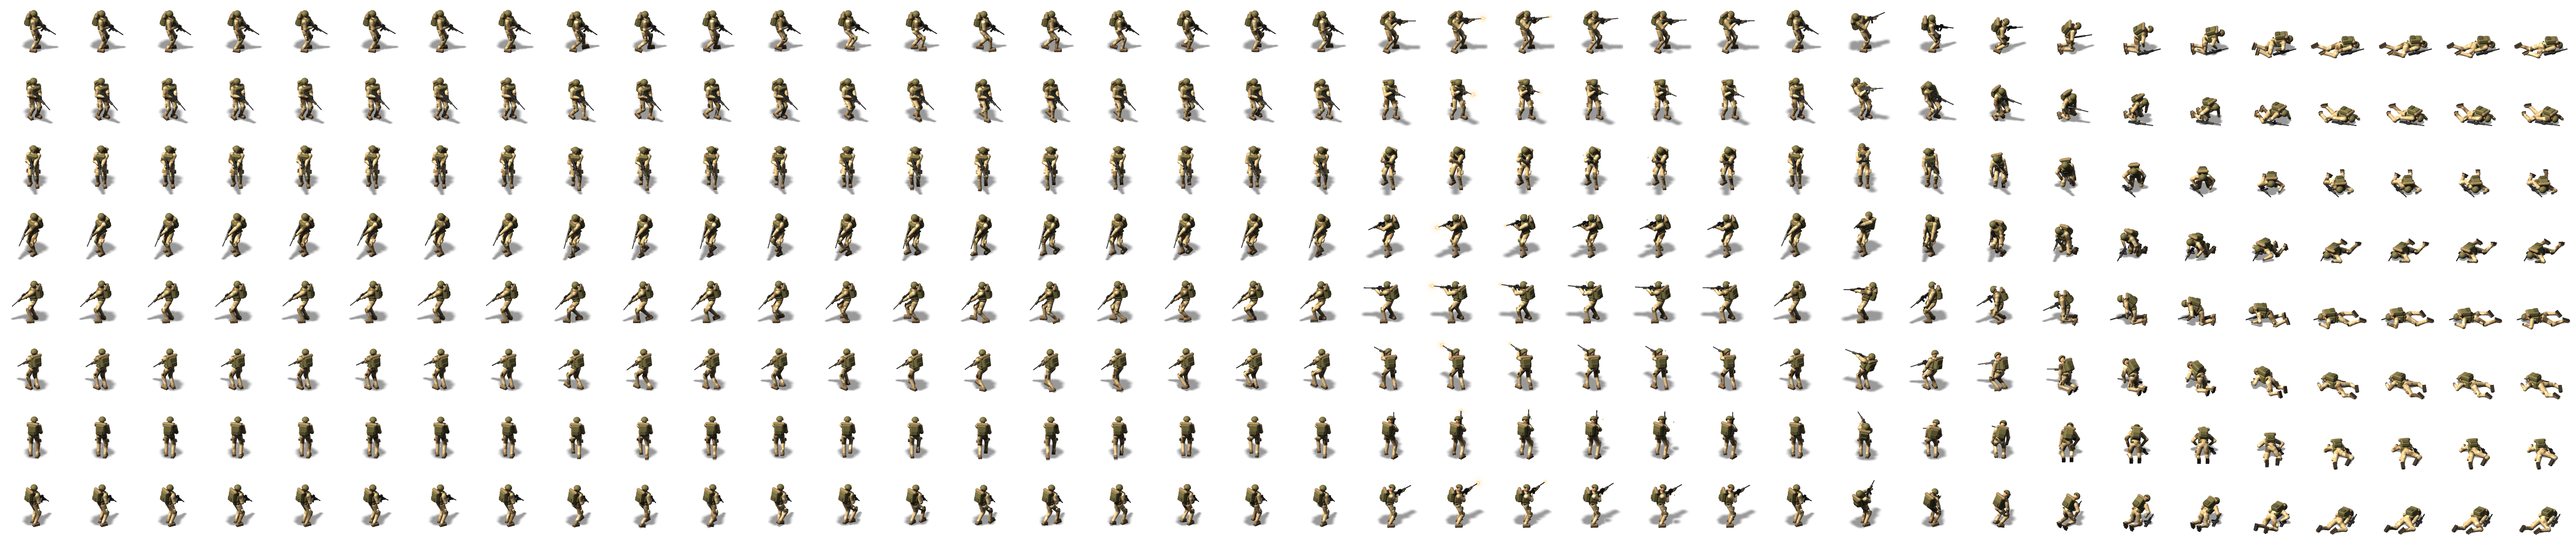
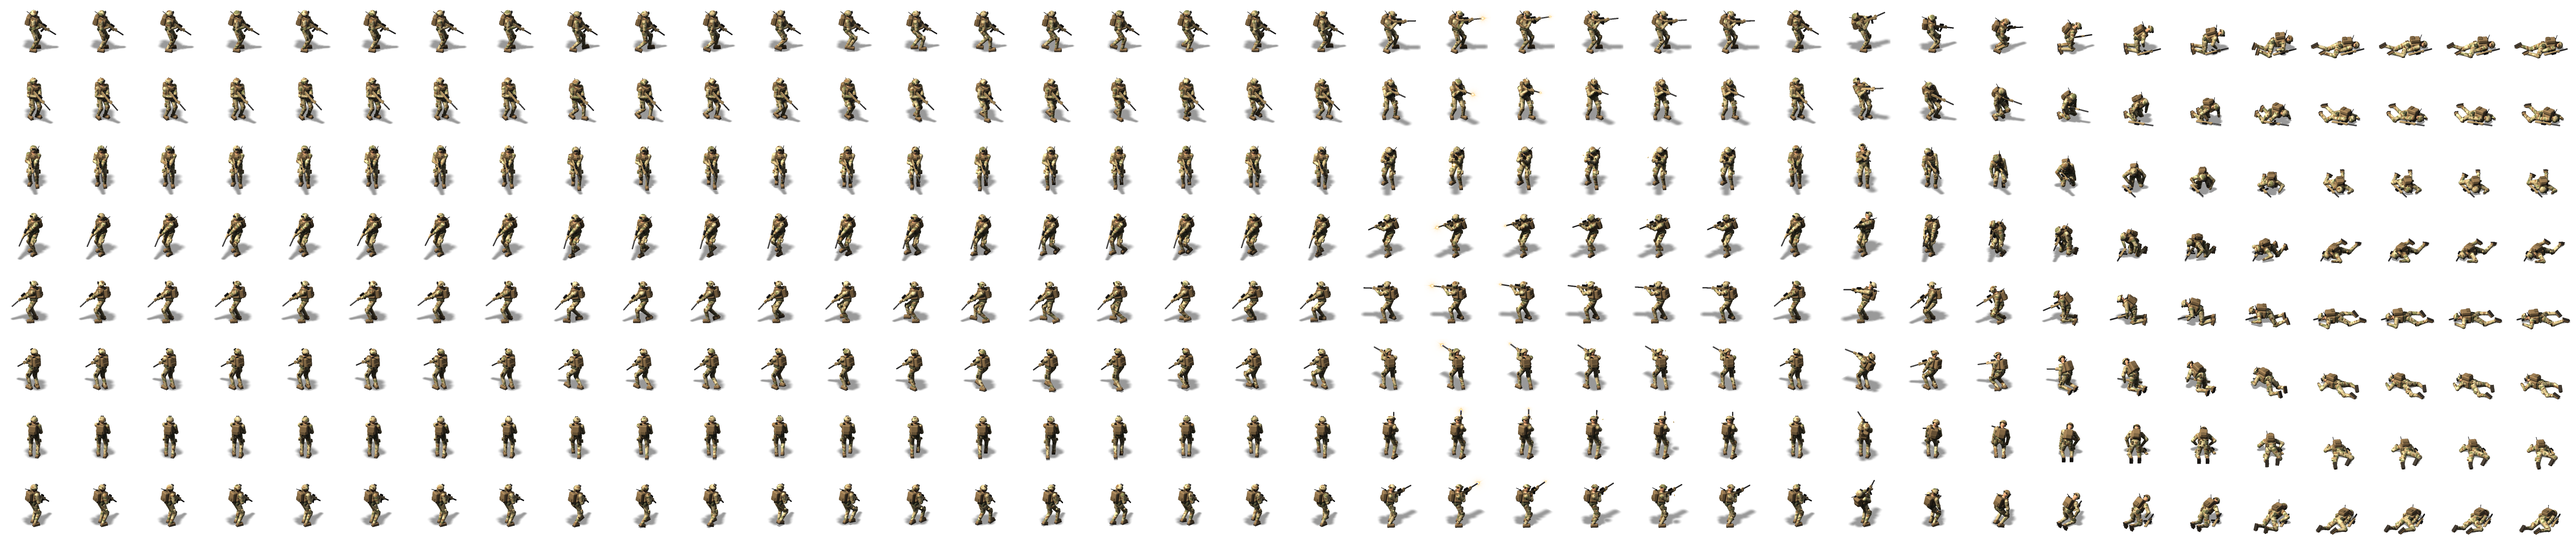
Re-kit the soldier in current-issue equipment
The rig (tools/soldier3d/soldier3d.py) now wears current US Army kit,
simplified so it reads at about 90 px:
- OCP / MultiCam-style uniform (tan, khaki, olive, brown, dark branches)
- coyote low-profile plate carrier: cummerbund, shoulder straps, three
  ranger-green 6.8 mm magazine pouches, admin pouch, tourniquet
- battle belt with first-aid and dump pouches; coyote knee pads and gloves
- high-cut helmet in OCP: side rails, NVG mount, ENVG-B-style binocular
  goggles flipped up, battery pack, comms headset, ballistic glasses
- assault pack with a radio and whip antenna
- M7-style rifle in flat dark earth with a suppressor, a fire-control
  optic and a laser module
The goggles and antenna stay inside the helmet's outline, so the standing
height is the same in every view (93-95 px). Game atlas and stand-alone
sheets re-rendered; docs updated.

Tests: anim 35/35, units 82/82, battle 10/10. Tracers still start 0 px
from the drawn muzzle.

Claude-Session: https://claude.ai/code/session_01PnJZQJwfKQuhKUNyfFw8zk

diff --git a/tools/soldier3d/soldier3d.py b/tools/soldier3d/soldier3d.py
@@ -86,37 +86,51 @@ MAT = {
     "olive2": dict(col=(0.33, 0.31, 0.20), spec=0.05),
     "coyote": dict(col=(0.56, 0.47, 0.33), spec=0.05),
     "skin":   dict(col=(0.80, 0.58, 0.44), spec=0.10),
-    "glove":  dict(col=(0.30, 0.27, 0.22), spec=0.06),
+    "glove":  dict(col=(0.36, 0.30, 0.22), spec=0.06),
     "boot":   dict(col=(0.52, 0.42, 0.30), spec=0.06),
     "sole":   dict(col=(0.20, 0.18, 0.16), spec=0.05),
     "gun":    dict(col=(0.15, 0.15, 0.16), spec=0.45),
     "gunlt":  dict(col=(0.30, 0.28, 0.24), spec=0.25),
     "lens":   dict(col=(0.05, 0.06, 0.08), spec=0.9),
     "brass":  dict(col=(0.90, 0.68, 0.26), spec=0.8),
+    # modern kit: coyote brown carrier, ranger green pouches, black electronics, FDE rifle
+    "cb":     dict(col=(0.50, 0.41, 0.29), spec=0.05),
+    "cb2":    dict(col=(0.40, 0.33, 0.23), spec=0.05),
+    "rg":     dict(col=(0.29, 0.30, 0.22), spec=0.05),
+    "black":  dict(col=(0.08, 0.08, 0.09), spec=0.30),
+    "nvg":    dict(col=(0.11, 0.11, 0.12), spec=0.45),
+    "fde":    dict(col=(0.62, 0.53, 0.38), spec=0.18),
+    "can":    dict(col=(0.17, 0.17, 0.18), spec=0.40),
 }
 MAT_IDS = {k: i for i, k in enumerate(MAT)}
-CAMO_COLS = np.array([
-    (0.74, 0.64, 0.47),   # base sand
-    (0.87, 0.80, 0.64),   # light
-    (0.55, 0.44, 0.30),   # brown
-    (0.38, 0.30, 0.21),   # dark
+CAMO_COLS = np.array([   # OCP / MultiCam-style
+    (0.66, 0.60, 0.45),   # base tan
+    (0.79, 0.74, 0.58),   # light khaki
+    (0.45, 0.46, 0.30),   # olive green
+    (0.53, 0.41, 0.27),   # brown
+    (0.29, 0.22, 0.15),   # dark brown branches
 ])
 _rng = np.random.default_rng(7)
 _K1 = _rng.normal(size=(4, 3))
-_K1 = _K1 / np.linalg.norm(_K1, axis=1, keepdims=True) * 13.0
+_K1 = _K1 / np.linalg.norm(_K1, axis=1, keepdims=True) * 19.0
 _K2 = _rng.normal(size=(4, 3))
-_K2 = _K2 / np.linalg.norm(_K2, axis=1, keepdims=True) * 21.0
+_K2 = _K2 / np.linalg.norm(_K2, axis=1, keepdims=True) * 30.0
 _P1 = _rng.uniform(0, 6.28, 4)
 _P2 = _rng.uniform(0, 6.28, 4)
+_K3 = _rng.normal(size=(4, 3))
+_K3 = _K3 / np.linalg.norm(_K3, axis=1, keepdims=True) * 46.0
+_P3 = _rng.uniform(0, 6.28, 4)
 
 
 def camo_color(q):
     n1 = np.sin(q @ _K1.T + _P1).sum(1) + 0.5 * np.sin(q @ (_K1.T * 2.1) + _P2).sum(1)
     n2 = np.sin(q @ _K2.T + _P2).sum(1) + 0.5 * np.sin(q @ (_K2.T * 1.7) + _P1).sum(1)
+    n3 = np.sin(q @ _K3.T + _P3).sum(1)
     idx = np.zeros(len(q), int)
-    idx[n2 > 1.3] = 1
-    idx[n1 > 1.2] = 2
-    idx[n1 > 2.4] = 3
+    idx[n1 > 0.9] = 1                       # soft khaki fields
+    idx[n2 > 1.25] = 2                      # green blobs
+    idx[n2 < -1.7] = 3                      # brown blobs
+    idx[(n3 > 2.25) & (n1 < 1.8)] = 4       # small dark-brown branches
     return CAMO_COLS[idx]
 
 
@@ -309,7 +323,7 @@ def build(J, fx=None):
         kdir = nrm(np.cross(nrm(an - kn), Rp[:, 0] * sx)) * sx
         fwd = Rp[:, 2]
         kd = nrm(fwd - nrm(kn - hip) * np.dot(fwd, nrm(kn - hip)))
-        pr.append(Prim("ell", "olive", 0.0, c=kn + kd * 0.058,
+        pr.append(Prim("ell", "cb2", 0.0, c=kn + kd * 0.058,
                        R=frame_from(kn - an, Rp[:, 0]), h=(0.062, 0.075, 0.036)))
         # cargo pocket on thigh side
         mid = hip * 0.45 + kn * 0.55
@@ -324,40 +338,68 @@ def build(J, fx=None):
     # pelvis / belt
     pr.append(Prim("ell", "camo", K, tex=(J["pel"], Rp), c=J["pel"], R=Rp,
                    h=(0.19, 0.13, 0.13)))
-    pr.append(Prim("box", "olive2", 0.0, c=J["pel"] + Rp @ np.array([0, 0.06, 0]), R=Rp,
-                   h=(0.192, 0.032, 0.135), rr=0.03))
+    # battle belt with an IFAK (left, behind) and a dump pouch (right, behind)
+    pr.append(Prim("box", "rg", 0.0, c=J["pel"] + Rp @ np.array([0, 0.06, 0]), R=Rp,
+                   h=(0.196, 0.036, 0.138), rr=0.03))
+    pr.append(Prim("box", "cb2", 0.0, c=J["pel"] + Rp @ np.array([0.13, 0.03, -0.12]), R=Rp @ eul(0, -35, 0),
+                   h=(0.035, 0.065, 0.03), rr=0.014))
+    pr.append(Prim("box", "rg", 0.0, c=J["pel"] + Rp @ np.array([-0.13, 0.01, -0.11]), R=Rp @ eul(0, 35, 0),
+                   h=(0.05, 0.05, 0.035), rr=0.02))
     # torso
     pr.append(Prim("rcone", "camo", K, tex=(J["pel"], Rc), a=J["pel"] + Rp @ np.array([0, 0.05, 0]),
                    b=J["chest"], r1=0.15, r2=0.16))
     pr.append(Prim("ell", "camo", K, tex=(J["pel"], Rc), c=J["chest"] + Rc @ np.array([0, 0.03, 0]),
                    R=Rc, h=(0.215, 0.17, 0.13)))
-    # plate carrier + pouches
+    # plate carrier (low-profile, coyote) with cummerbund, shoulder straps and front pouches
     vc = J["chest"] + Rc @ np.array([0, 0.0, 0.01])
-    pr.append(Prim("box", "olive", 0.0, c=vc, R=Rc, h=(0.19, 0.18, 0.15), rr=0.06))
-    for i, x in enumerate((-0.085, 0.0, 0.085)):
-        pr.append(Prim("box", "olive2", 0.0, c=J["chest"] + Rc @ np.array([x * 1.1, -0.07, 0.155]),
-                       R=Rc, h=(0.04, 0.066, 0.034), rr=0.014))
-    pr.append(Prim("box", "olive2", 0.0, c=J["chest"] + Rc @ np.array([0.10, 0.09, 0.15]),
-                   R=Rc @ eul(0, 0, -12), h=(0.035, 0.04, 0.022), rr=0.01))
-    # backpack
-    pr.append(Prim("box", "olive", 0.0, c=J["chest"] + Rc @ np.array([0, 0.03, -0.235]),
-                   R=Rc, h=(0.17, 0.21, 0.10), rr=0.06))
-    pr.append(Prim("box", "olive2", 0.0, c=J["chest"] + Rc @ np.array([0, -0.07, -0.335]),
-                   R=Rc, h=(0.12, 0.085, 0.035), rr=0.022))
-    pr.append(Prim("rcone", "coyote", 0.0, a=J["chest"] + Rc @ np.array([-0.17, 0.25, -0.23]),
-                   b=J["chest"] + Rc @ np.array([0.17, 0.25, -0.23]), r1=0.062, r2=0.062))
-    # neck + head
+    pr.append(Prim("box", "cb", 0.0, c=vc, R=Rc, h=(0.185, 0.175, 0.148), rr=0.05))
+    pr.append(Prim("box", "cb", 0.0, c=J["chest"] + Rc @ np.array([0, -0.105, 0.0]), R=Rc,
+                   h=(0.205, 0.062, 0.138), rr=0.045))
+    for x in (-0.11, 0.11):
+        pr.append(Prim("box", "cb2", 0.0, c=J["chest"] + Rc @ np.array([x, 0.165, 0.0]), R=Rc,
+                       h=(0.048, 0.022, 0.15), rr=0.016))
+    for x in (-0.088, 0.0, 0.088):          # triple magazine pouch (6.8 mm mags stand tall)
+        pr.append(Prim("box", "rg", 0.0, c=J["chest"] + Rc @ np.array([x, -0.07, 0.162]),
+                       R=Rc, h=(0.04, 0.075, 0.034), rr=0.014))
+    pr.append(Prim("box", "cb2", 0.0, c=J["chest"] + Rc @ np.array([0, 0.075, 0.158]),
+                   R=Rc, h=(0.105, 0.042, 0.022), rr=0.012))                  # admin pouch
+    pr.append(Prim("rcone", "black", 0.0, a=J["chest"] + Rc @ np.array([0.085, 0.14, 0.15]),
+                   b=J["chest"] + Rc @ np.array([0.145, 0.14, 0.13]), r1=0.019, r2=0.019))  # tourniquet
+    # assault pack, radio and whip antenna
+    pr.append(Prim("box", "cb", 0.0, c=J["chest"] + Rc @ np.array([0, 0.02, -0.23]),
+                   R=Rc, h=(0.15, 0.19, 0.085), rr=0.05))
+    pr.append(Prim("box", "cb2", 0.0, c=J["chest"] + Rc @ np.array([0, -0.08, -0.318]),
+                   R=Rc, h=(0.11, 0.075, 0.03), rr=0.02))
+    rad = J["chest"] + Rc @ np.array([0.10, 0.17, -0.20])
+    pr.append(Prim("box", "black", 0.0, c=rad, R=Rc, h=(0.036, 0.07, 0.032), rr=0.01))
+    pr.append(Prim("rcone", "black", 0.0, a=rad + Rc @ np.array([0, 0.06, 0]),
+                   b=rad + Rc @ np.array([0.03, 0.13, -0.16]), r1=0.011, r2=0.008))
+    # neck + head: ballistic glasses, comms headset, high-cut helmet with NVG mount and ENVG-B (up)
     pr.append(Prim("rcone", "skin", K, a=J["neck"] - up_c * 0.03, b=J["head"] - Rh[:, 1] * 0.04,
                    r1=0.065, r2=0.06))
     pr.append(Prim("ell", "skin", K, c=J["head"], R=Rh, h=(0.096, 0.112, 0.105)))
     pr.append(Prim("sph", "skin", 0.0, c=J["head"] + Rh @ np.array([0, -0.015, 0.106]), r1=0.022))
     pr.append(Prim("box", "lens", 0.0, c=J["head"] + Rh @ np.array([0, 0.02, 0.088]), R=Rh,
                    h=(0.078, 0.021, 0.02), rr=0.013))
+    for x in (-0.1, 0.1):
+        pr.append(Prim("ell", "rg", 0.0, c=J["head"] + Rh @ np.array([x, -0.005, 0.0]), R=Rh,
+                       h=(0.03, 0.05, 0.044)))
     hel_c = J["head"] + Rh @ np.array([0, 0.036, -0.016])
-    cut_n = nrm(np.array([0, 1.0, 0.62]))
-    pr.append(Prim("sph", "olive", 0.0, c=hel_c, R=Rh, r1=0.140, cut=(cut_n, -0.018)))
-    pr.append(Prim("box", "olive2", 0.0, c=hel_c + Rh @ np.array([0, 0.03, -0.128]), R=Rh,
-                   h=(0.035, 0.025, 0.02), rr=0.012))
+    cut_n = nrm(np.array([0, 1.0, 0.5]))
+    pr.append(Prim("sph", "camo", 0.0, tex=(hel_c, Rh), c=hel_c, R=Rh, r1=0.140, cut=(cut_n, -0.004)))
+    for x in (-0.128, 0.128):               # side rails
+        pr.append(Prim("box", "black", 0.0, c=hel_c + Rh @ np.array([x, 0.0, 0.0]), R=Rh,
+                       h=(0.01, 0.016, 0.065), rr=0.005))
+    Rn = Rh @ eul(-28, 0, 0)
+    pr.append(Prim("box", "black", 0.0, c=hel_c + Rh @ np.array([0, 0.03, 0.132]), R=Rn,
+                   h=(0.032, 0.024, 0.012), rr=0.006))                         # NVG shroud
+    pr.append(Prim("box", "nvg", 0.0, c=hel_c + Rh @ np.array([0, 0.032, 0.152]), R=Rh @ eul(-55, 0, 0),
+                   h=(0.058, 0.024, 0.028), rr=0.012))                         # ENVG-B, flipped up
+    for x in (-0.032, 0.032):
+        pr.append(Prim("rcone", "nvg", 0.0, a=hel_c + Rh @ np.array([x, 0.026, 0.166]),
+                       b=hel_c + Rh @ np.array([x, 0.054, 0.164]), r1=0.019, r2=0.017))
+    pr.append(Prim("box", "cb2", 0.0, c=hel_c + Rh @ np.array([0, 0.035, -0.13]), R=Rh @ eul(25, 0, 0),
+                   h=(0.048, 0.032, 0.022), rr=0.012))                         # battery / counterweight
     # arms
     for s, sx in (("L", 1), ("R", -1)):
         sh, el, wr = J["sh" + s], J["el" + s], J["wr" + s]
@@ -370,17 +412,17 @@ def build(J, fx=None):
     # rifle
     go, gR = J["gun_o"], J["gun_R"]
     G = lambda v: go + gR @ (np.asarray(v, float) * GS)
-    pr.append(Prim("box", "gun", 0.0, c=G((0, -0.01, 0.08)), R=gR, h=(0.0253, 0.0575, 0.1035), rr=0.018))
-    pr.append(Prim("box", "gun", 0.0, c=G((0, 0.0, 0.29)), R=gR, h=(0.0299, 0.0437, 0.1495), rr=0.01))
-    pr.append(Prim("box", "gunlt", 0.0, c=G((0, -0.005, 0.5)), R=gR, h=(0.0333, 0.0368, 0.1035), rr=0.012))
-    pr.append(Prim("rcone", "gun", 0.0, a=G((0, 0.005, 0.58)), b=go + gR @ MUZZLE, r1=0.016, r2=0.016))
-    pr.append(Prim("box", "gun", 0.0, c=G((0, -0.1, 0.33)), R=gR @ eul(12, 0, 0),
-                   h=(0.0184, 0.0747, 0.0310), rr=0.008))
-    pr.append(Prim("box", "gun", 0.0, c=G((0, -0.065, 0.2)), R=gR @ eul(-18, 0, 0),
-                   h=(0.0184, 0.0517, 0.0230), rr=0.008))
-    pr.append(Prim("box", "gun", 0.0, c=G((0, 0.06, 0.3)), R=gR, h=(0.0230, 0.0299, 0.0633), rr=0.012))
-    pr.append(Prim("box", "lens", 0.0, c=G((0, 0.062, 0.358)), R=gR, h=(0.0184, 0.0207, 0.0046),
-                   rr=0.003))
+    pr.append(Prim("box", "fde", 0.0, c=G((0, -0.01, 0.08)), R=gR, h=(0.0235, 0.055, 0.1035), rr=0.018))   # stock
+    pr.append(Prim("box", "fde", 0.0, c=G((0, 0.0, 0.29)), R=gR, h=(0.0299, 0.0437, 0.1495), rr=0.01))     # receiver
+    pr.append(Prim("box", "fde", 0.0, c=G((0, -0.004, 0.47)), R=gR, h=(0.0333, 0.0368, 0.10), rr=0.012))    # handguard
+    pr.append(Prim("rcone", "can", 0.0, a=G((0, 0.003, 0.585)), b=go + gR @ MUZZLE, r1=0.024, r2=0.024))  # suppressor
+    pr.append(Prim("box", "black", 0.0, c=G((0, -0.105, 0.335)), R=gR @ eul(10, 0, 0),
+                   h=(0.0184, 0.085, 0.034), rr=0.008))                                                  # magazine
+    pr.append(Prim("box", "black", 0.0, c=G((0, -0.065, 0.2)), R=gR @ eul(-18, 0, 0),
+                   h=(0.0184, 0.0517, 0.0230), rr=0.008))                                                # grip
+    pr.append(Prim("box", "black", 0.0, c=G((0, 0.072, 0.30)), R=gR, h=(0.026, 0.036, 0.09), rr=0.014))  # fire-control optic
+    pr.append(Prim("box", "lens", 0.0, c=G((0, 0.075, 0.38)), R=gR, h=(0.021, 0.024, 0.004), rr=0.004))
+    pr.append(Prim("box", "fde", 0.0, c=G((0, 0.047, 0.50)), R=gR, h=(0.022, 0.017, 0.042), rr=0.006))   # laser / light
     # ejected casing
     if fx.get("casing") is not None:
         cp, ang = fx["casing"]

diff --git a/tools/slice_sprites.py b/tools/slice_sprites.py
@@ -308,7 +308,7 @@ def reach8(items, d):
         up = ys < ys.min() + 0.7 * (ys.max() - ys.min())
         return float(((xs[up] - it[1][0]) * vx + (ys[up] - it[1][1]) * vy).max())
     return sorted(items, key=r)
-# (the sheet's desert camouflage is kept: it matches the desert soldier, soldier16.*)
+# (the sheet's tan desert camouflage is kept: it is close to the soldier's OCP pattern, soldier16.*)
 for d in DIRS8:
     S8.add("z_walk_" + d, ZS[d][0:5]); S8.add("z_attack_" + d, reach8(ZS[d][5:7], d)); S8.add("z_die_" + d, ZS[d][7:10])
 S8.save(os.path.join(OUT, "infected_soldier8.png"), os.path.join(OUT, "infected_soldier8.json"),

diff --git a/tools/soldier3d/assemble.py b/tools/soldier3d/assemble.py
@@ -116,7 +116,7 @@ def main():
     print("ok")
 
 
-README = """Desert soldier sprite sheets
+README = """Soldier sprite sheets (current-issue kit)
 ============================
 
 Frames: 160 x 160 px, transparent background, soft ground shadow included.

diff --git a/README.md b/README.md
@@ -44,7 +44,7 @@ can install it as an app from Chrome, Edge or Brave.
 | Infection | ✔ a bite can infect a soldier (5 % per bite on medium, less with armour; ×0.5 on low, ×1.5 on high). He turns 22–36 s later (countdown over his head), and the new infected goes for his own squad. A soldier killed while infected rises 4 s later |
 | Corpse piles | ✔ bodies stack where they fall (1.5 m cells, about 0.17 m per body, up to 1.7 m). Piles slow anyone crossing them, lift whoever stands on them, and once a pile reaches the top of sandbags, a barricade, a concrete barrier, an MG nest or a wreck, the infected climb over it |
 | Commands | ✔ move, attack-move, attack (focus fire), stop, hold, defend, patrol, follow, retreat, interact, board/unload, build, clear wreck |
-| Infantry (10) | ✔ rifleman, assault, sniper, machine gunner, shotgun, flamethrower, rocket, medic (heals), engineer (builds, clears), special forces. The starting squad has 9: two riflemen, assault, MG, sniper, shotgun, rocket, medic, engineer. Drawn from the desert soldier sheet (rendered from one 3D rig) in 16 directions: breathing idle, walking, firing toward the target (a small muzzle flash at the barrel on every shot, and the tracer leaves the barrel) and dying (falls face down, plays once, the body stays) |
+| Infantry (10) | ✔ rifleman, assault, sniper, machine gunner, shotgun, flamethrower, rocket, medic (heals), engineer (builds, clears), special forces. The starting squad has 9: two riflemen, assault, MG, sniper, shotgun, rocket, medic, engineer. Drawn from the soldier sheet (rendered from one 3D rig, in current-issue kit: OCP-pattern uniform, plate carrier, high-cut helmet with night-vision goggles and headset, suppressed rifle with a fire-control optic) in 16 directions: breathing idle, walking, firing toward the target (a small muzzle flash at the barrel on every shot, and the tracer leaves the barrel) and dying (falls face down, plays once, the body stays) |
 | Vehicles (6) | ✔ jeep, APC, IFV, tank, transport truck (ammo for nearby infantry), recovery vehicle (repairs). You get them through logistics once the FOB motor pool is built, and they arrive at the FOB gate. They crush infected, carry passengers (right-click a vehicle to board, U to unload) and draw as simple box models |
 | Infected (8) | ✔ walker, runner, crawler, brute (knockback, breaks doors), bloater (explodes), screamer (calls hordes), mutant (leaps), Abomination (boss, ground slam). Drawn from your sprite sheets in steadied 8-direction views: walk, run and crawl cycles follow the distance moved, attacks land on the real hit, and the dead fall over before lying still (the Abomination stays a 3D model) |
 | Infected AI | ✔ sight with line of sight, hearing (gunfire, explosions, screams), pursuit with shared flow fields, swarming, losing targets, investigating noise, breaking doors and defences, attacking vehicles |

diff --git a/docs/ASSETS.md b/docs/ASSETS.md
@@ -22,9 +22,18 @@ previous soldier sheet. It is no longer used and nothing cuts it.
 
 ## Infantry soldier (`public/sprites/soldier16.*`)
 
-* **Source:** a desert-camo rifleman built from 3D shapes and rendered from a 3/4 camera
-  (`tools/soldier3d/soldier3d.py` for the rig, `anims.py` for the poses). Every frame comes from the
+* **Source:** a rifleman built from 3D shapes and rendered from a 3/4 camera
+  (`tools/soldier3d/soldier3d.py` for the rig and kit, `anims.py` for the poses). Every frame comes from the
   same rig at the same scale, so the figure doesn't change between frames, clips or views.
+* **Kit** (current US Army issue, simplified so it reads at about 90 px tall):
+  * uniform in an OCP / MultiCam-style pattern (tan, khaki, olive, brown, dark-brown branches);
+  * coyote plate carrier with a cummerbund, three ranger-green magazine pouches, an admin pouch and
+    a tourniquet; a battle belt with a first-aid pouch and a dump pouch; knee pads;
+  * high-cut helmet in OCP with side rails, a night-vision mount and binocular night-vision goggles
+    flipped up, a battery pack at the back, and a comms headset under it; ballistic glasses;
+  * assault pack with a radio and whip antenna;
+  * M7-style rifle in flat dark earth with a suppressor, a fire-control optic and a laser module.
+  The palette and every item are in `build()` in `tools/soldier3d/soldier3d.py`.
 * **Views:** 16, every 22.5°: N, NNE, NE, ENE, E, ESE, SE, SSE, S, SSW, SW, WSW, W, WNW, NW, NNW
   (N = back to the viewer, S = facing the viewer, clockwise). They are listed in the JSON's `views`.
 * **Building it:** `cd tools/soldier3d && python3 game_atlas.py` (about 5 minutes on 2 cores, needs
@@ -82,9 +91,9 @@ previous soldier sheet. It is no longer used and nothing cuts it.
 * **Slicing:** by grid cell (some frames touch). Each row is scaled so the standing figure is 100 px
   tall, because the sheet's rows are not drawn at one size. Standing frames are anchored at the hips
   (the stride doesn't shift the body); kneeling and lying ones at the body's middle. Reach frames are
-  ordered by how far the arm reaches along the view (ready, grab). The sheet's desert camouflage is
-  kept as drawn, so a soldier who turns still wears the desert soldier's uniform. (It used to be
-  re-dyed olive to match the previous soldier sheet.)
+  ordered by how far the arm reaches along the view (ready, grab). The sheet's tan desert
+  camouflage is kept as drawn, which is close to the soldier's OCP pattern. (It used to be re-dyed
+  olive to match the previous soldier sheet.)
 * **Clips:** `z_walk_<D>`, `z_attack_<D>`, `z_die_<D>`.
 * **In the game** (`zpose8`): steadied 8-direction views as for soldiers, facing the way he really
   moves or his victim. The step cycle (stride frames 1-2-3-4-3-2 when hurrying, 0-1-2-3-2-1 slower)

diff --git a/assets/source/desert_soldier/README.md b/assets/source/desert_soldier/README.md
@@ -1,7 +1,12 @@
-# Desert soldier sheets (16 directions)
+# Soldier sheets (16 directions)
 
 Rendered in code from one 3D soldier rig (`tools/soldier3d/`), so the figure, gear and camo are the
 same in every frame and every direction. Made for this project; free to redistribute with it.
+
+The kit follows current US Army issue: an OCP-pattern uniform; a plate carrier with magazine pouches;
+a high-cut helmet with night-vision goggles flipped up and a comms headset; an assault pack with a
+radio antenna; and an M7-style suppressed rifle with a fire-control optic (see `docs/ASSETS.md`).
+The folder keeps its old name.
 
 `soldier_preview.gif` shows 8 of the 16 directions playing every clip.
 
